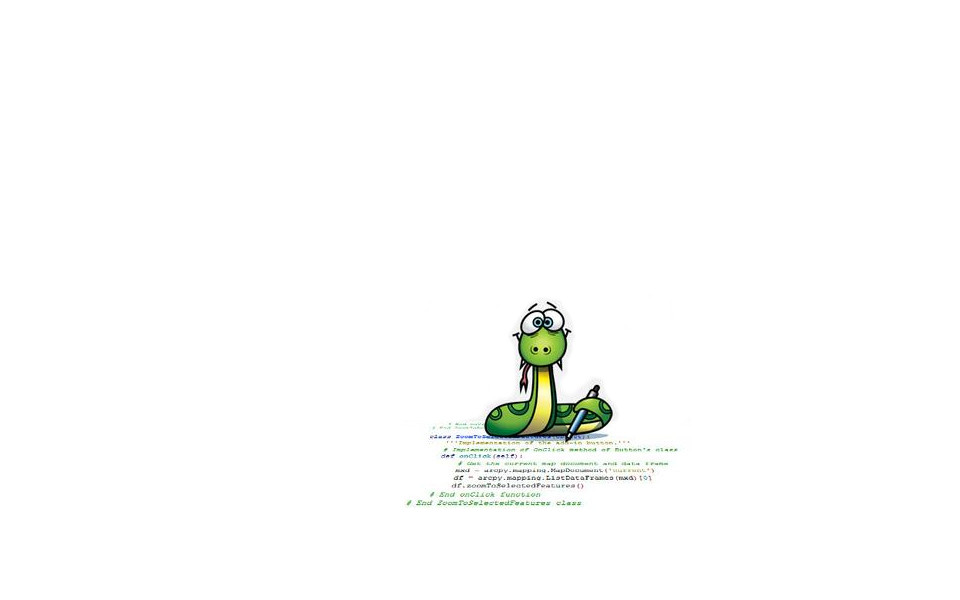
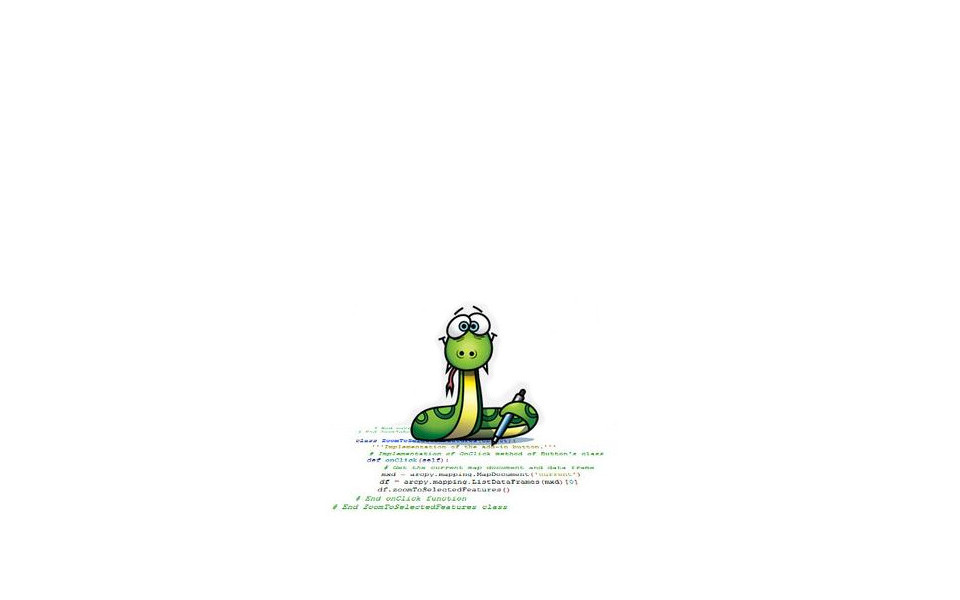
压缩图片删除艺术字

Changed region(s): [[0.3438, 0.51, 0.6875, 0.87]]

diff --git a/assets/css/style.css b/assets/css/style.css
@@ -1,8 +1,3 @@
-@import url(http://fonts.useso.com/css?family=Raleway:400,300,500,700,800);
-@import url(http://fonts.useso.com/css?family=Lobster);
-
-
-
 body {
 	font: 300 14px/1.8 'Raleway', sans-serif;
 	color: #666;
